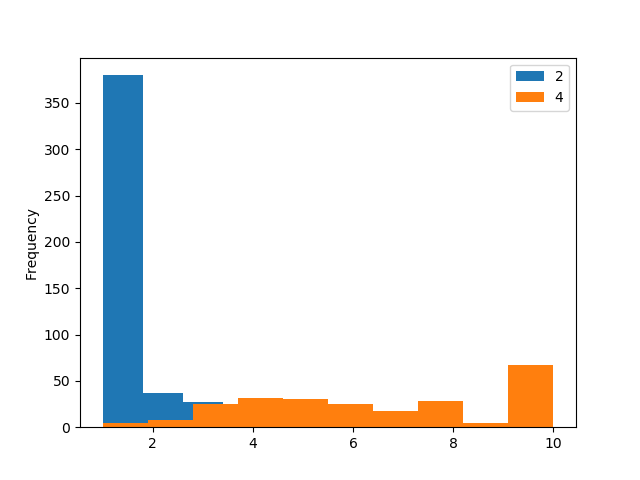
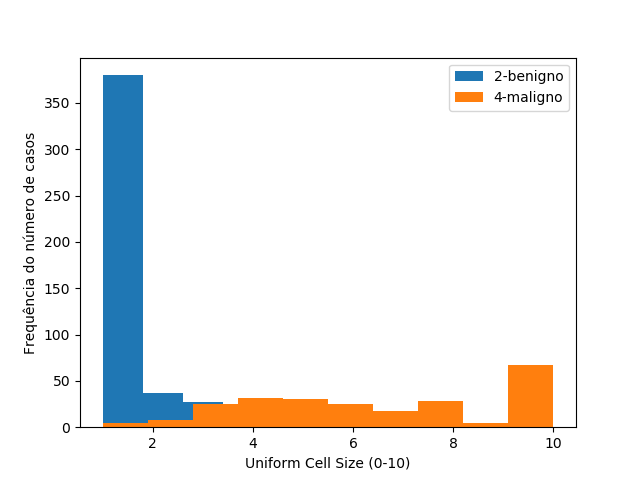
improve image

Changed region(s): [[0.6875, 0.125, 0.875, 0.2188], [0.0312, 0.2812, 0.0625, 0.75], [0.375, 0.9375, 0.6562, 1.0]]

diff --git a/ml-project/vizu-distribution.py b/ml-project/vizu-distribution.py
@@ -5,7 +5,12 @@ import matplotlib.pyplot as plt
 df = pd.read_csv('breast-cancer-wisconsin.data.txt')
 print(df.head())  
 #df['unif_cel_size'].hist()
-df.groupby('class')['unif_cel_size'].plot(kind='hist',legend=True)
+df.groupby('class')['unif_cel_size'].plot(kind='hist')
+
+plt.xlabel("Uniform Cell Size (0-10)", fontdict=None, labelpad=None, )
+plt.ylabel("Frequência do número de casos", fontdict=None, labelpad=None, )
+
+plt.gca().legend(("2-benigno","4-maligno"))
 plt.show()
 
 

diff --git a/ml-project/readme.md b/ml-project/readme.md
@@ -10,12 +10,12 @@ O relatório do trabalho será feito neste arquivo Markdown. Além disso, o docu
 
 #### *Antepasti*
 
-Antes de iniciar a resolução, cabe indicar os materiais de consulta. Durante a execução do trabalho, senti que estava um pouco despreparado para tarefas intermediárias e práticas como: obtenção dos dados, limpeza e sintaxe das bibliotecas envolvidas. Assim, busquei materiais de consulta **com abordagens práticas**, entre eles, destaco:
+Antes de iniciar a resolução, cabe indicar os materiais de consulta. Durante a execução do trabalho, senti que estava um pouco despreparado para tarefas intermediárias e práticas como: obtenção dos dados, limpeza e uso da sintaxe do Pandas (biblioteca de Python). Assim, busquei materiais de consulta **com abordagens práticas**, entre eles, destaco:
 
 - Repositório do professor Renato Souza da EMAp, em especial, o *case* da IRIS [link](https://github.com/rsouza/FGV_Intro_DS)
 - Vídeo IRIS [link](https://www.youtube.com/watch?v=hd1W4CyPX58)
 - *Playlist* do Youtuber sentdex com vários exemplos, modelo preditivo de ações e, inclusive, o de câncer de mama que será discutido aqui [link](https://www.youtube.com/playlist?list=PLQVvvaa0QuDfKTOs3Keq_kaG2P55YRn5v)
-- Stackoverflow: perguntas diversas feitas por outros usuários e uma pergunta que eu mesmo fiz [link](https://stackoverflow.com/questions/56718635/is-the-interpretation-of-the-data-visualization-bellow-which-uses-python-librar)
+- Stackoverflow: perguntas diversas feitas por outros usuários e perguntas que eu mesmo fiz [link](https://stackoverflow.com/questions/56718635/is-the-interpretation-of-the-data-visualization-bellow-which-uses-python-librar)
 
 
 
@@ -41,7 +41,7 @@ Os principais aspectos da base são:
 
 
 
--  A amostra é formada por 699 elementos
+-  A amostra é formada por 699 elementos, em 241 casos o tumor era *benigno* e em 458 casos o tumor era *maligno*.
 
 - Ao todo são 11 colunas/atributos na base de dados, sendo que uma delas é apenas um identificador (ID) e a última delas apresenta a classificação como Benigno ou Maligno. Para tumores benignos, o número 2 é usado. Para tumores malignos, o número 4 é usado.
 
@@ -262,11 +262,11 @@ class
 
 Analisando a tabela acima, é possível perceber que nos valores máximos e mínimos os tumores malignos e benignos não são muito diferentes. No caso de mínimo, são praticamente idênticos, seja no tamanho uniforme da célular ou em sua forma, tanto tumores benignos como malignos recebem nota 1 na escala de 1 a 10 montada pelos pesquisadores.
 
-Entre os valores máximos em cada uma das variáveis é possível encontrar algumas diferenças entre tumores malignos e beginos. Por exemplo, a máximo *Bland Chromatin* em tumores benignos recebete nota 7, enquanto que o máximo de Bland Chromatin em tumores malignos recebe nota 10. Apesar desta diferença, os valores máximos entre os dois tumores são homogêneos.
+Entre os valores máximos em cada uma das variáveis é possível encontrar algumas diferenças entre tumores malignos e beginos. Por exemplo, o máximo *Bland Chromatin* em tumores benignos recebete nota 7, enquanto que o máximo de *Bland Chromatin* em tumores malignos recebe nota 10. Apesar desta diferença, os valores máximos entre os dois tumores nas dez variáveis consideradas são, de certa forma, homogêneos.
 
 
 
-**A diferença chave entre os dois tipos de tumores na variáveis consideradas está nos valores que estão no quartil superior, isto é,  75º percentil.** Nessa faixa dos dados, as estatísticas são bem heterogêneas entre tumores benignos e malignos. Por exemplo, na variável *Uniform Cell Size*, em tumores benignos a nota atribuída para o quartil superior é de 1 em 10, no mesmo percentil, tumores malignos receberam nota 10 de 10. Em outras variáveis como  *Marg adhesion* e *Norm Nucleoli* essa assimetria também aconteceu.
+**A diferença chave entre os dois tipos de tumores, não no máximo ou mínimo, mas sim nos valores que estão no quartil superior, isto é,  75º percentil.** Nessa faixa dos dados, as estatísticas são bem heterogêneas entre tumores benignos e malignos. Por exemplo, na variável *Uniform Cell Size*, em tumores benignos a nota atribuída para o quartil superior é de 1 em 10, no mesmo percentil, tumores malignos receberam nota 10 de 10. Em outras variáveis como  *Marg adhesion* e *Norm Nucleoli* essa assimetria também aconteceu. Isso sugere que casos nessa faixa de percentil sejam mais fáceis de serem classificados  do que casos em que as métricas estão próximas do máximo definido.
 
 #### 1.4 Apresente outra duas análises ou visualizações interessantes
 
